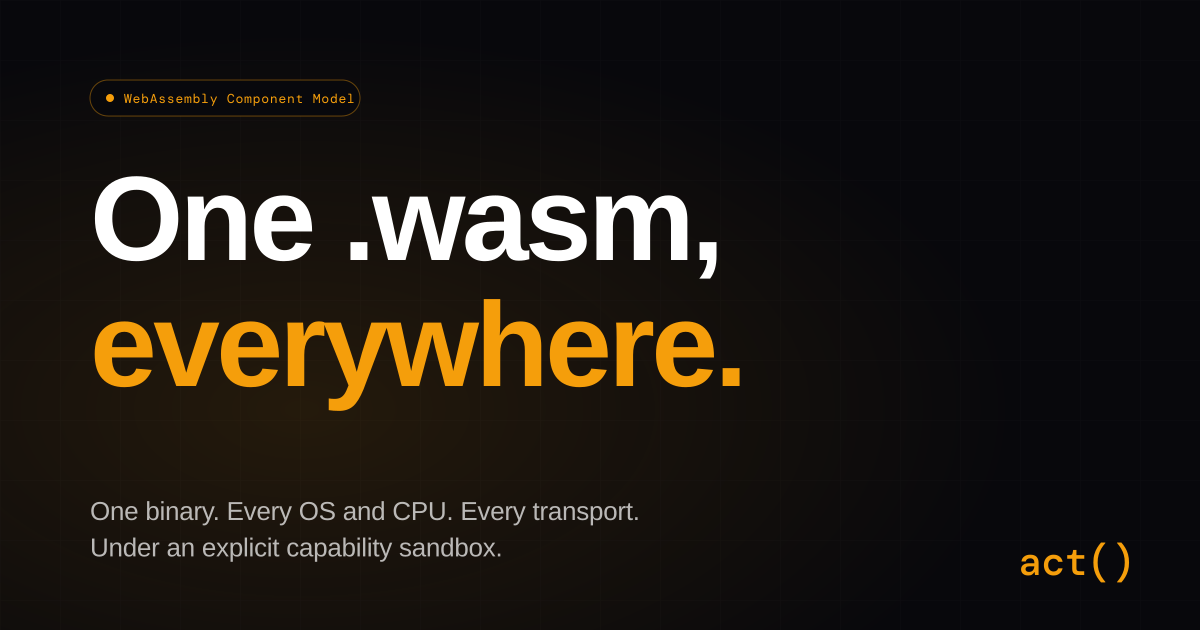
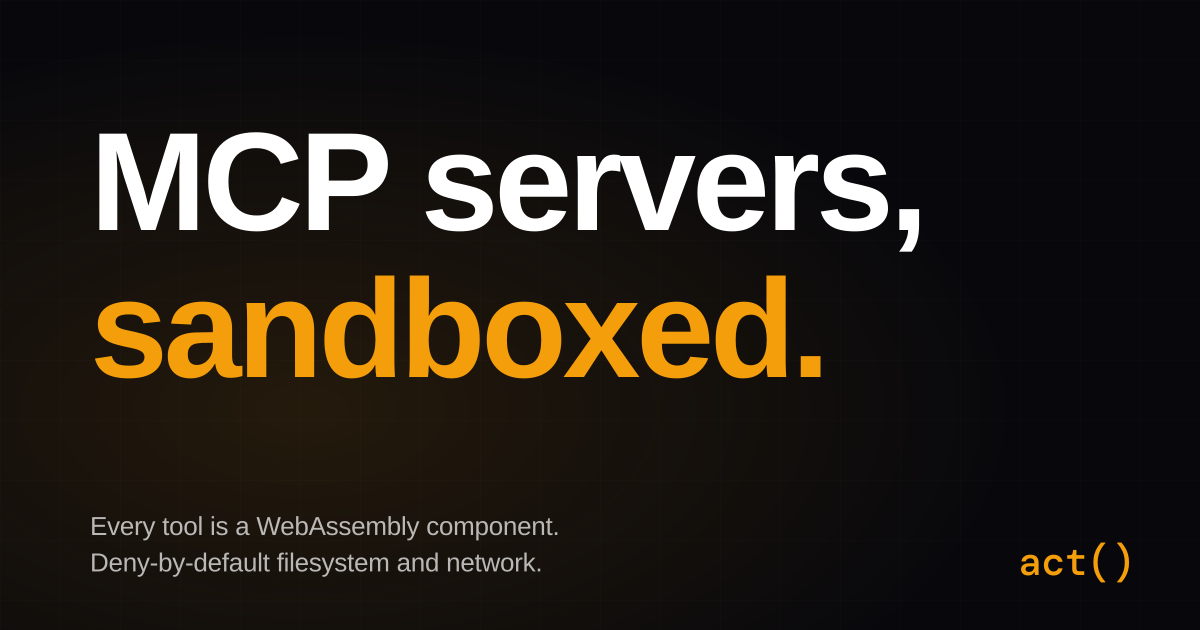
docs(blog): refocus intro post on MCP-curl-bash security nightmare
Previous framing led with per-platform distribution ("one .wasm,
everywhere"). True but downstream — the sharper angle, and the one
reads react to most, is that today's MCP servers deploy as
ambient-permission native processes (npx/uvx/curl|bash) with full
access to SSH keys, .env, browser cookies, and whatever LPE path is
currently unpatched. That's a full-blown security nightmare the
industry has collectively decided not to look at. ACT's value is
being the model that looks at it.

- New title: "MCP servers, sandboxed — introducing ACT". Hooks the
  MCP audience directly and surfaces the sandbox angle in three
  words instead of a paragraph.
- New description (also used for dev.to / OG / Twitter previews).
- First three paragraphs rewritten: npx/uvx/curl|bash reality →
  ambient-permission baseline → ACT as the alternative.
- Distribution / VM-isolation / transports / SDK sections retained
  but reordered so they read as "why the substrate lets ACT make
  that trade" rather than as independent selling points.

Cover image: strip the AI-stock "pill with dot" badge, enlarge the
hero, switch headline to match the post title. act() wordmark stays.

Changed region(s): [[0.0617, 0.1206, 0.7708, 0.6635], [0.0617, 0.7841, 0.5242, 0.9048]]

diff --git a/src/content/blog/2026-04-23-introducing-act.md b/src/content/blog/2026-04-23-introducing-act.md
@@ -1,6 +1,6 @@
 ---
-title: "One .wasm, everywhere — introducing ACT"
-description: "ACT packages tools as WebAssembly components — one binary that runs on every OS, every CPU, under an explicit capability sandbox. Stops the per-platform install tax that native tools pay today."
+title: "MCP servers, sandboxed — introducing ACT"
+description: "Today's MCP servers ship as `npx`, `uvx`, or `curl | bash` — ambient-permission native processes with your full user access. ACT packages tools as sandboxed WebAssembly components with declared capabilities and deny-by-default filesystem and network, so an agent can safely call tools written by a stranger."
 pubDate: 2026-04-23
 author: actcore
 tags:
@@ -11,102 +11,61 @@ tags:
 cover_image: https://actcore.dev/blog/introducing-act-cover.png
 ---
 
-A useful tool today ships with a matrix behind it.
+Setting up an MCP server for your AI agent today usually looks like this:
 
-`npm install`, `pip install`, `cargo install`, `brew install`, or `apt
-install` — pick your package manager. Now pick your OS. Now pick your
-architecture. Somewhere in the middle a native dependency falls over:
-a missing system library, a mismatched wheel, a postinstall script
-that tries to shell out to `gcc`. You end up with half a gigabyte of
-build tooling on your laptop just to run a 200-line utility.
+```bash
+npx -y @some-org/mcp-server          # or
+uvx some-mcp-server                  # or the occasional
+curl https://example.com/install.sh | bash
+```
 
-**ACT** — Agent Component Tools — tries a different deal.
+The server runs as you. It can read your home directory. It sees your SSH keys, your `.env` files, your shell history, your browser cookies, your GPG keyring. If the server has a bug — or a malicious dependency sneaks in — the code that reads those files also runs as you. If your kernel or any installed binary has an unpatched local privilege escalation, the agent-invoked tool just inherited that escalation path too.
 
-You compile the tool **once**, as a WebAssembly component. You get a
-single `.wasm` file. That file runs on Linux x86_64, macOS arm64,
-Windows, Android, Raspberry Pi, inside a browser tab, inside a
-serverless runtime. Same bytes. Same SHA256. No per-platform wheels,
-no native shims, no build toolchain required on anyone's machine but
-yours.
+That isn't a failure mode of any particular MCP server; it's the default deployment model. **Ambient-permission native processes, shipped by anyone, invoked on demand by an LLM that's notoriously easy to talk into misusing them.** "Your agent has your credentials and runs strangers' code on request" is the baseline security posture of every MCP setup built on `npx` / `uvx` / `curl | bash` today. It's a full-blown security nightmare that the industry has collectively decided not to look at.
+
+**ACT** — Agent Component Tools — is the model that looks at it.
+
+Every ACT tool is a WebAssembly component running inside [`wasmtime`](https://wasmtime.dev) — a full VM with a JIT, linear memory, and no ambient host syscalls. Out of the box the component has zero filesystem access, zero outbound network, and no way to spawn a process. Each capability it does use (`wasi:filesystem`, `wasi:http`) is **declared** in the component manifest at build time and **granted** by the operator at run time. The host enforces the intersection: a permissive operator can't escalate past the component's stated intent, a lazy component can't silently exceed the operator's grant. You hand a tool from `ghcr.io/someone-else/whatever` to your agent, and the worst-case blast radius is still bounded by the policy you wrote.
+
+That's the core trade ACT offers. The rest of this post is about why the WebAssembly-component substrate makes it practical.
 
 ## Distribution, for free
 
-The artifact is a container-registry object, because that's what OCI
-registries already do well:
+A side benefit of picking WebAssembly: the artifact is a single binary that runs everywhere.
 
 ```bash
 npx @actcore/act info ghcr.io/actpkg/sqlite:latest --tools
 ```
 
-That command pulls a 1.5 MB component from GitHub's container
-registry, reads its metadata from a WASM custom section (no
-instantiation), and prints the tools it exposes. First pull is
-cached. The artifact is signed by GitHub's attestation workflow and
-comes with an SBOM. That's all upstream machinery; ACT just uses it.
+That command pulls a 1.5 MB component from GitHub's container registry, reads its metadata from a WASM custom section (no instantiation), and prints the tools it exposes. First pull is cached. The artifact is signed by GitHub's attestation workflow and comes with an SBOM — all upstream machinery; ACT just uses it.
 
-Want to host your own component? `oras push` it to any OCI registry.
-Want to ship it as a plain file? `.wasm` over HTTP works just as
-well. `act` accepts all three:
+Same bytes, same SHA256, on Linux x86_64, macOS arm64, Windows, Android (validated), Raspberry Pi, inside a browser tab, inside a serverless runtime. No per-platform wheels, no native shims, no build toolchain required on anyone's machine but yours. And because the artifact is a registry object rather than three separate npm/pip/cargo packages, there's one supply-chain path to audit instead of three.
+
+`act` accepts components from any of:
 
 - local path: `./my-component.wasm`
 - HTTP URL: `https://example.com/tool.wasm`
 - OCI ref: `ghcr.io/your-org/tool:1.2.3`
 
-No "my-tool-npm" and "my-tool-pypi" and "my-tool-cargo". One
-artifact. One namespace.
+No "my-tool-npm" and "my-tool-pypi" and "my-tool-cargo". One artifact. One namespace.
 
-## Sandboxing, by default
+## How the sandbox actually works
 
-This is the part that matters most.
+The isolation comes from three stacked layers, and it's worth separating them because "WASI sandbox" isn't quite the right phrase.
 
-Any tool you install today — unless you go out of your way — runs
-with your full user permissions. An `npm install` can read your SSH
-keys. A `pip install` can exfiltrate your `.env`. A "simple" CLI
-utility has the same ambient filesystem and network access as you do.
-Sandboxing native code is possible (firejail, bwrap, cgroups) but
-tedious enough that almost nobody does it for day-to-day tooling.
+**wasmtime** is the actual isolation. It's a WebAssembly VM: linear-memory bounds enforced, no direct syscalls, no pointer aliasing, no escape outside of explicit host imports. Every ACT target runs the same wasmtime, so the isolation is identical on every OS and CPU.
 
-ACT components don't run natively. They run inside [`wasmtime`](https://wasmtime.dev) —
-a full WebAssembly VM with a JIT, linear-memory isolation, and no
-direct access to host syscalls.
-The component can't read files, open sockets, or spawn processes on
-its own; the only way out of the VM is through explicit imports the
-host chose to wire up. That's the real isolation boundary — and
-because every target runs the same wasmtime, it's identical on
-Linux, macOS, Windows, and Android.
+**WASI** is the capability-import layer on top. A component asks for `wasi:filesystem` or `wasi:http` imports; the host either wires them up, provides a gated proxy, or leaves them unlinked. There's no "deny" at the capability level — a component either has the import or it doesn't.
 
-WASI is the capability-oriented I/O interface layered on top of
-that VM. A component asks for `wasi:filesystem` or `wasi:http`
-imports; the host either provides them, provides a gated proxy, or
-doesn't provide them at all. Everything else stays inside wasmtime.
+**ACT** is the policy layer on top of WASI. Filesystem and outbound network are deny-by-default. The component's manifest declares what it needs (`[std.capabilities."wasi:filesystem"]`, `"wasi:http"`) — this is a ceiling. The operator's runtime flags (`--fs-allow /tmp/db.sqlite`, `--http-allow host=api.example.com`) are the grant. The host computes the intersection and refuses to wire up anything outside it.
 
-ACT adds a policy layer on top of the capability imports. Filesystem
-and outbound network are **deny-by-default**. To let a component
-touch anything, two things have to agree:
+Deny-CIDR rules sit in front of DNS resolution, so a component that tries to reach `169.254.169.254` (the cloud-metadata service) fails with a `DnsError` before a socket opens. HTTP redirects are re-checked per-hop, so a 302 to a denied host fails mid-chain instead of quietly succeeding. Details are in the [capability-layer deep-dive](/blog/) (next post).
 
-1. The component's manifest declares what it needs
-   (`[std.capabilities."wasi:filesystem"]`, `"wasi:http"`). This is a
-   ceiling — empty or missing = hard-deny, full stop.
-2. At run time, the operator grants a policy that fits inside that
-   ceiling (`--fs-allow /tmp/db.sqlite`, `--http-allow host=api.example.com`).
-
-The effective policy is the intersection. A permissive operator
-can't escalate past a component's stated intent, and a lazy
-component can't silently exceed the operator's grants. Deny-CIDR
-rules filter outbound resolution against RFC1918, link-local, and
-anything else you mark off-limits — right at the DNS layer, so a
-component that tries to phone home to `169.254.169.254` (the
-cloud-metadata IP) fails with a `DnsError` before a socket is ever
-opened.
-
-The VM gives us isolation. WASI gives us capability imports. ACT
-gives us the declaration-plus-ceiling model that makes those
-capabilities safe to hand to third-party code.
+The VM gives us isolation. WASI gives us capability imports. ACT gives us the declaration-plus-ceiling model that makes those capabilities safe to hand to third-party code.
 
 ## One component, any transport
 
-A neat side-effect of writing tools as components: the host can serve
-them over whatever wire format the caller wants.
+Because tools are components, not native processes, the host can serve them over whatever wire format the caller wants.
 
 ```bash
 # Claude Desktop / Cursor / Cline → stdio JSON-RPC
@@ -125,8 +84,7 @@ act call ghcr.io/actpkg/sqlite:latest query \
 jco transpile ghcr.io/actpkg/sqlite:latest -o dist/
 ```
 
-Same component. Same tool. Four deployments. Whatever new transport
-shows up next, the component doesn't change.
+Same component, same tool, four deployments. Whatever new transport shows up next, the component doesn't change.
 
 ## Writing one
 
@@ -146,31 +104,18 @@ mod component {
 }
 ```
 
-`cargo build --target wasm32-wasip2 --release` + `act-build pack` and
-you have a `.wasm` that speaks MCP, HTTP, and the CLI. `#[act_tool]`
-derives the JSON Schema from the function signature; `#[act_component]`
-emits the WIT export. Python has the same shape with `@component` /
-`@tool` decorators on top of [`componentize-py`](https://github.com/bytecodealliance/componentize-py).
+`cargo build --target wasm32-wasip2 --release` + `act-build pack` and you have a `.wasm` that speaks MCP, HTTP, and the CLI. `#[act_tool]` derives the JSON Schema from the function signature; `#[act_component]` emits the WIT export. Python has the same shape with `@component` / `@tool` decorators on top of [`componentize-py`](https://github.com/bytecodealliance/componentize-py).
 
 ## Where this is
 
 Early, and deliberately narrow.
 
-The core spec — [act:core@0.3.0](https://github.com/actcore/act-spec/blob/main/wit/act-core.wit) — is a WIT world with three async functions. The
-host ships as `act` on npm and cargo. Eleven components are published
-on `ghcr.io/actpkg`: sqlite, http-client, openapi-bridge, mcp-bridge,
-crypto, encoding, filesystem, random, time, openwallet, python-eval.
-Rust and Python SDKs are live; JavaScript via componentize-js is [blocked on upstream async-export support](https://github.com/bytecodealliance/ComponentizeJS/issues/335).
+The core spec — [act:core@0.3.0](https://github.com/actcore/act-spec/blob/main/wit/act-core.wit) — is a WIT world with three async functions. The host ships as `act` on npm and cargo. Eleven components are published on `ghcr.io/actpkg`: sqlite, http-client, openapi-bridge, mcp-bridge, crypto, encoding, filesystem, random, time, openwallet, python-eval. Rust and Python SDKs are live; JavaScript via componentize-js is [blocked on upstream async-export support](https://github.com/bytecodealliance/ComponentizeJS/issues/335).
 
 Follow-up posts coming on:
 
-- The 0.5 capability / policy layer in more detail.
-- The `rmcp` bridge (a thin shim over the official MCP crate instead
-  of the hand-rolled JSON-RPC dispatcher we had before).
-- Distribution stories — signed SBOMs, reproducible builds, the
-  artifact lifecycle from `just build` to `actpkg.dev`.
+- The capability / policy layer in depth — declaration-as-ceiling, DNS-level deny-CIDR, per-hop redirect re-check, ancestor traversal, and what goes wrong when any of those is missing.
+- The `rmcp` bridge (a thin shim over the official MCP crate instead of the hand-rolled JSON-RPC dispatcher we had before).
+- Distribution — signed SBOMs, reproducible builds, the artifact lifecycle from `just build` to `actpkg.dev`.
 
-If you write MCP servers, build agent tooling, or work on the
-component model, we'd love your thoughts. Start at [actcore.dev/docs](https://actcore.dev/docs/),
-browse [github.com/actcore](https://github.com/actcore), or ping us
-in the Bytecode Alliance Zulip.
+If you write MCP servers, build agent tooling, or work on the component model, we'd love your thoughts. Start at [actcore.dev/docs](https://actcore.dev/docs/), browse [github.com/actcore](https://github.com/actcore), or ping us in the Bytecode Alliance Zulip.
